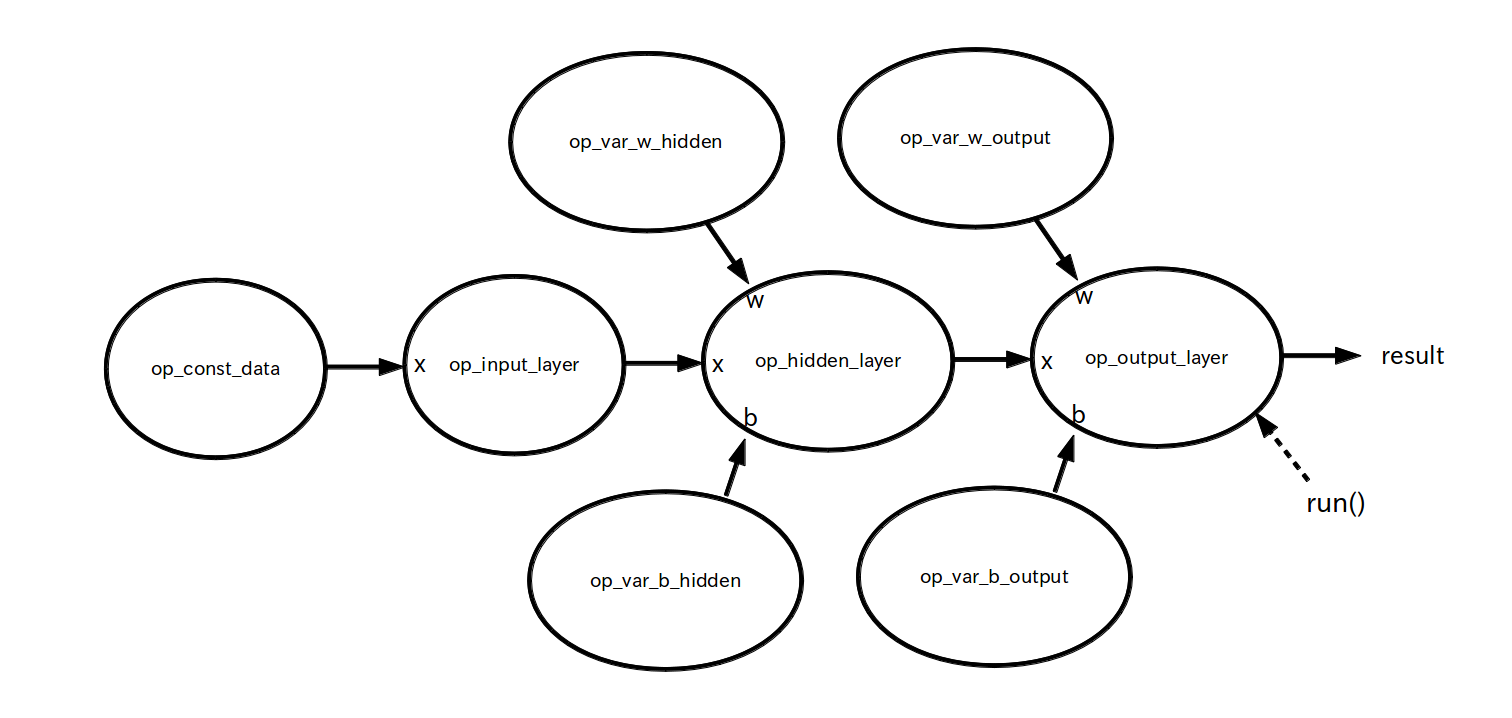
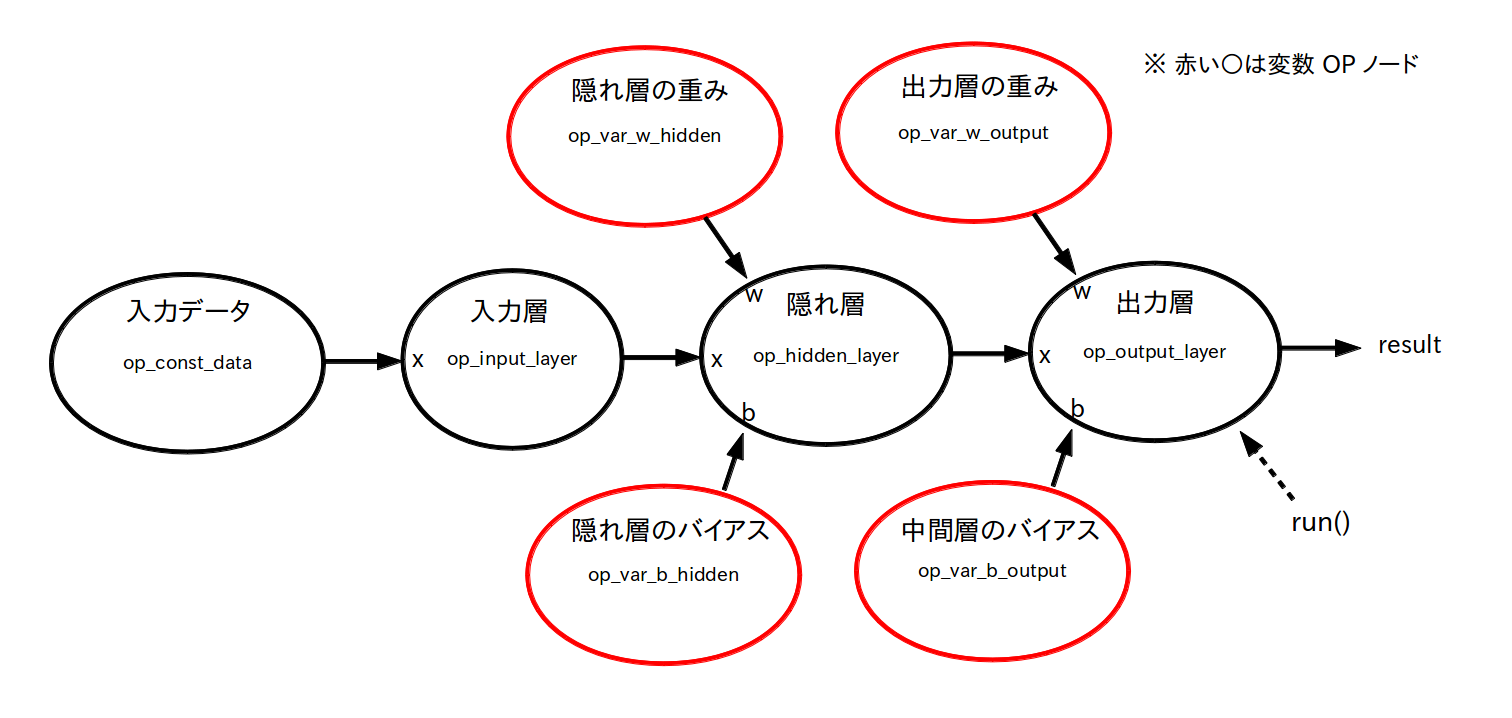
dlearning 更新

diff --git a/docs/activity/dlearning/text02/page04.html b/docs/activity/dlearning/text02/page04.html
@@ -79,8 +79,7 @@
 <p>
 L x N 行列の教師データを定数 OP ノード として表現する
 <br>
-$[x_{i1}, x_{i2}, \cdots, x_{iN}]$ が $i$ 番目の教師データとなる
-
+$i$ 行目の $[x_{i1}, x_{i2}, \cdots, x_{iN}]$ が $i$ 番目の教師データとなる
 </p>
 
 <img src="./img/page04-fig1.png" alt="">
@@ -125,8 +124,7 @@ $[x_{i1}, x_{i2}, \cdots, x_{iN}]$ が $i$ 番目の教師データとなる
 <p>
 L x M 行列のラベルを定数 OP ノード として表現する
 <br>
-$[y_{i1}, y_{i2}, \cdots, y_{iM}]$ が $i$ 番目のラベルとなる
-
+$i$ 行目 の $[y_{i1}, y_{i2}, \cdots, y_{iM}]$ が $i$ 番目の教師データに対するラベルとなる
 </p>
 
 <img src="./img/page04-fig2.png" alt="">
@@ -187,14 +185,10 @@ H(y,y') = -\sum_{i=1}^L \sum_{j=1}^M y_{ij}\log y'_{ij}
 このクロスエントロピー $H(y,y')$ は
 </p>
 
-<p>
-<b>
 <ol>
-<li>出力とラベルが似てない程 $H(y,y')$ の値は大きくなる</li>
-<li>出力とラベルが似てる程 $H(y,y')$ の値は小さくなる</li>
+<li><b>出力とラベルが似てない程 $H(y,y')$ の値は大きくなる</b></li>
+<li><b>出力とラベルが似てる程 $H(y,y')$ の値は小さくなる</b></li>
 </ol>
-</b>
-</p>
 
 <p>
 というとても良い性質を持っていますので「出力とラベルのそっくり度」を測る指標として用いることが出来ます。言い換えれば $H(y,y')$ が可能な限り小さくなる様に重みとバイアスの値を更新すれば良い事が分かります。
@@ -202,12 +196,43 @@ H(y,y') = -\sum_{i=1}^L \sum_{j=1}^M y_{ij}\log y'_{ij}
 
 <br>
 <h3>
-5. クロスエントロピーのデータフローグラフ
+5. クロスエントロピーのデータフローグラフと自作 OP ノード
 </h3>
 
 <p>
-執筆中
+では次にクロスエントロピーの定義式をデータフローグラフ化して自作 OP ノードを作成します。
 </p>
+
+<p>
+まず図 1 に示した L x N 行列の教師データをニューラルネットワークへ入力するとニューラルネットワーク内部で各行に対して同じような行列演算がなされ、出力もやはり図 3 のような L X M 行列(テンソル)となります。
+</p>
+
+<div class="info">
+<input type="checkbox"><b>図3: op_output_latyerから出力される L X M 行列(テンソル):</b>
+
+<p>
+$i$ 行目の $[y'_{i1}, y'_{i2}, \cdots, y'_{iN}]$ が $i$ 番目の教師データに対応する出力
+</p>
+
+<img src="./img/page04-fig3.png" alt="">
+</div>
+
+<p>
+従ってクロスエントロピーの自作 OP ノード内部のデータフローグラフは総和(Reduce_Sum) OP ノードを使って次のように表す事が出来ます。
+</p>
+
+<div class="info">
+<input type="checkbox"><b>図4: クロスエントロピー OP ノード内部のデータフローグラフ:</b>
+
+<p>
+名前: cross_entropy
+<br>
+動作: L x M 行列 のラベル l と L x M 行列 の出力 r を受け取って総和を取って -1 倍して出力する。
+</p>
+
+<img src="./img/page04-fig4.png" alt="">
+</div>
+
 
 <br>
 <h3>
@@ -215,9 +240,40 @@ H(y,y') = -\sum_{i=1}^L \sum_{j=1}^M y_{ij}\log y'_{ij}
 </h3>
 
 <p>
-執筆中
+では全ての準備が整ったのでいよいよディープラーニングを実行して重みとバイアスを更新します。
+ディープラーニングの方式には色々あるのですが今回は「勾配降下法」を用います。
 </p>
 
+<p>
+この「勾配降下法」も TensorFlow では OP ノードとして用意されています。
+
+<div class="info">
+<input type="checkbox"><b>勾配降下法 OP ノード: </b>
+
+<p>
+書式:  ノード名 = tf.train.GradientDescentOptimizer( r ).minimize( c )
+</p>
+
+<p>
+入力テンソル: r は学習率(スカラー)、c はクロスエントロピー
+<br>
+出力テンソル: 無し
+</p>
+</div>
+
+<p>
+学習率は学習を行う精度と速度を表しています。値が大きいほどニューラルネットワークは適当に学習しますが速く学習が進みます。逆に値が小さいとニューラルネットワークはきちんと学習しますが遅く学習が進みます。ただ学習率をいくらにしようとも、1回この OP ノードを run しただけでは学習は終わりませんので、クロスエントロピーが十分小さくなるまで何回も学習を繰り返す必要があります。
+</p>
+
+<p>
+では最後にディープラーニング全体のデータフローグラフを示してこのページの話を締めたいと思います。
+</p>
+
+<div class="info">
+<input type="checkbox"><b>図5: ディープラーニング全体のデータフローグラフ:</b>
+
+<img src="./img/page04-fig5.png" alt="">
+</div>
 
 <script>PreNext(4,5)</script>
 </body>

diff --git a/docs/activity/dlearning/index.html b/docs/activity/dlearning/index.html
@@ -25,7 +25,7 @@
 <br>
 上位ナレッジ(<a href="../../img/kmap.png">ナレッジマップ</a>): <a href="../vector/">ベクトルと多様体</a>
 <br>
-最終更新日: 2016/12/9
+最終更新日: 2016/12/10
 </div>
 
 <h2>目的</h2>
